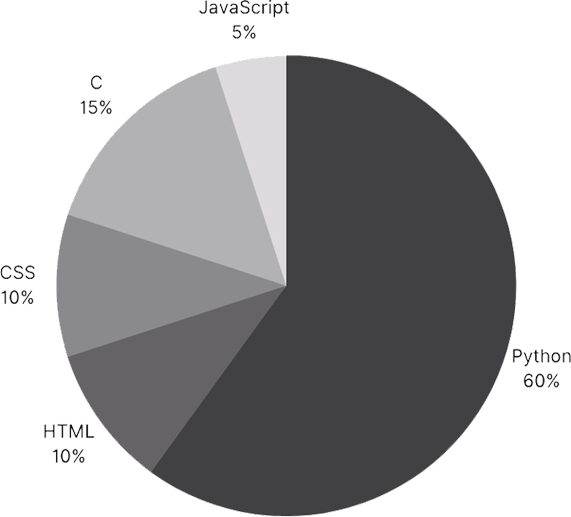
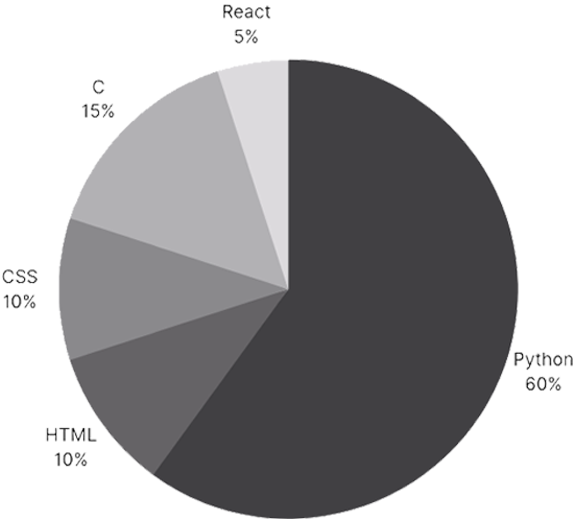
not linked

diff --git a/Resume1.html b/Resume1.html
@@ -4,6 +4,8 @@
 	<title>My Portfolio</title>
 	<link rel="stylesheet" type="text/css" href="css_resume1.css">
 	<link href="https://stackpath.bootstrapcdn.com/font-awesome/4.7.0/css/font-awesome.min.css" rel="stylesheet">
+	<link rel="stylesheet" href="path/to/font-awesome/css/font-awesome.min.css">
+
 </head>
 <body>
 	<div class="scroll">
@@ -57,7 +59,7 @@
 							<div class="role">Engineering Student</div>
 
 						</div>
-						<div class="text">I am an engineering student in KMITL university, majored in Computer Innovation Engineering. Focused on both hardwrae and software.</div>
+						<div class="text">I am an engineering student in KMITL university, majored in Computer Innovation Engineering, focused on both hardware and software.</div>
 						<div class="pr-list">
 							<ul>
 								<li><i class="fa fa-calendar" aria-hidden="true"></i> 24th November, 2004</li>
@@ -68,9 +70,9 @@
 						</div>
 				<div class="social-icons-head">
 						<ul>
-							<li><a href=""><i class="fa fa-facebook" aria-hidden="true"></i></a></li>
-							<li><a href=""><i class="fa fa-twitter" aria-hidden="true"></i></a></li>
-							<li><a href=""><i class="fa fa-instagram" aria-hidden="true"></i></a></li>
+							<li><a href=""><i class="fa fa-github" aria-hidden="true"></i></a></li>
+							<li><a href=""><i class="fa fa-google" aria-hidden="true"></i></a></li>
+							<li><a href=""><button type="button" class="res_button">My Resume</button></a></li>						
 						</ul>
 					</div>
 					</div>
@@ -93,14 +95,15 @@
 						<div class="text">HTML is a tool for writing websites, this resume is programmed by me using HTML.</div>
 						<div class="text-topic t-bold p-top50">CSS</div>
 						<div class="text">CSS is a language that is needed to decorate and customised a website, this resume is programmed in css.</div>
-						<div class="text-topic t-bold p-top50">JavaScript</div>
-						<div class="text">JavaScript are used for multimedia control and animations. In this case, I have used JavaScript as a tool for animations in this website.</div>
+						<div class="text-topic t-bold p-top50">React</div>
+						<div class="text">React is a language, that I am using with the current project, of a web-base game.</div>
+						<div class="text">I have learned how to impliment it with games.</div>
 						<div class="sub lang p-top75">
 							<div class="text-sub">I have participate in a programming competition, writing a web server using the Microsoft Small Basic language.</div>
 							<div class="text-sub">Microsoft Small Basic is a language developed by Microsoft.</div>
 						</div>
 					</div>
-					<div class="user-img flex-2 p p-left50"><img src="G:\My Drive\KMITL\Intern\intern_y2_application\pics\White Black Light Modern Minimal Architecture  Interior Design Portfolio Website (1).png"></div>
+					<div class="user-img flex-2 p p-left50"><img src="pics\White Black Light Modern Minimal Architecture  Interior Design Portfolio Website (1).png"></div>
 				</div>
 			</div>
 			</div>
@@ -174,18 +177,19 @@
 						</div>
 				</div>
 			</div>
-			<div class="section4-Acievements">
+
+			<div class="section4" id="Acheivements">
 				<div class="sec-title p-left30">
-					<div class="pg4 pg-sub-title p-top20">Acheivements</div>
-					<div class="pg4 pg-title">My Works</div>
+					<div class="pg-sub-title p-top50">Acheivements</div>
+					<div class="pg-title">My Works</div>
 					<div class="acheivements cont">
 						<div class="row">
 							<div class="col-md-3 col-sm-6 p-top50">
 								<div class="our-team">
 									<div class="pic">
-										<img src="G:\My Drive\KMITL\Intern\intern_y2_application\pics\auto-shopper.png">
+										<img src="pics\auto-shopper.png">
 										<ul class="social">
-											<i><a href="G:\My Drive\KMITL\Intern\intern_y2_application\Report-Autoshopper.pdf" download= "Report-Auto-Shopper" class="fa fa-file" aria-hidden="true"></a></i>
+											<i><a href="Report-Autoshopper.pdf" download= "Report-Auto-Shopper" class="fa fa-file" aria-hidden="true"></a></i>
 										</ul>
 									</div>
 									<div class="team-content">
@@ -197,7 +201,7 @@
 							<div class="col-md-3 col-sm-6 ">
 								<div class="our-team">
 									<div class="pic">
-										<img src="G:\My Drive\KMITL\Intern\intern_y2_application\pics\smart-shopper.png">
+										<img src="pics\smart-shopper.png">
 										<ul class="social">
 											<i><a href="PCA - Project Report - Auto Shopper-1.pdf" download="Report-Smart-Shopper" class="fa fa-file" aria-hidden="true"></a></i>
 										</ul>
@@ -211,7 +215,7 @@
 							<div class="col-md-3 col-sm-6">
 								<div class="our-team">
 									<div class="pic">
-										<img src="G:\My Drive\KMITL\Intern\intern_y2_application\pics\surveillance-robot.png">
+										<img src="pics\surveillance-robot.png">
 										<ul class="social">
 											<i><a href="Final Presentation-1.pdf" download="surveillance-robot-report" class="fa fa-file" aria-hidden="true"></i></a>
 										</ul>
@@ -225,7 +229,7 @@
 							<div class="col-md-3 col-sm-6">
 								<div class="our-team">
 									<div class="pic">
-										<img src="G:\My Drive\KMITL\Intern\intern_y2_application\pics\sanny_adventure.png">
+										<img src="pics\sanny_adventure.png">
 										<ul class="social">
 											<i><a href="" download="Project-sanny's-zip"class="fa fa-file" aria-hidden="true"></a></i>
 										</ul>
@@ -239,7 +243,7 @@
 							<div class="col-md-3 col-sm-6">
 								<div class="our-team">
 									<div class="pic">
-										<img src="G:\My Drive\KMITL\Intern\intern_y2_application\pics\techaton.jpg">
+										<img src="pics\techaton.jpg">
 									</div>
 									<div class="team-content">
 										<h3 class="title">Techaton Competition</h3>

diff --git a/css_resume1.css b/css_resume1.css
@@ -3,6 +3,7 @@
 @import url('https://fonts.googleapis.com/css?family=Roboto');
 @import url('https://fonts.googleapis.com/css2?family=Pathway+Gothic+One&display=swap');
 
+
 /*=============================================
 Css Indexing
 ===============================================
@@ -850,4 +851,62 @@ Page Styles
 }
 @media only screen and (max-width: 990px){
   .our-team{ margin-bottom: 30px; }
+}
+
+<!-- HTML !-->
+<button class="button-23" role="button">Button 23</button>
+
+/* CSS */
+.button-23 {
+  background-color: #FFFFFF;
+  border: 1px solid #222222;
+  border-radius: 8px;
+  box-sizing: border-box;
+  color: #222222;
+  cursor: pointer;
+  display: inline-block;
+  font-family: Circular,-apple-system,BlinkMacSystemFont,Roboto,"Helvetica Neue",sans-serif;
+  font-size: 16px;
+  font-weight: 600;
+  line-height: 20px;
+  margin: 0;
+  outline: none;
+  padding: 13px 23px;
+  position: relative;
+  text-align: center;
+  text-decoration: none;
+  touch-action: manipulation;
+  transition: box-shadow .2s,-ms-transform .1s,-webkit-transform .1s,transform .1s;
+  user-select: none;
+  -webkit-user-select: none;
+  width: auto;
+}
+
+.button-23:focus-visible {
+  box-shadow: #222222 0 0 0 2px, rgba(255, 255, 255, 0.8) 0 0 0 4px;
+  transition: box-shadow .2s;
+}
+
+.button-23:active {
+  background-color: #F7F7F7;
+  border-color: #000000;
+  transform: scale(.96);
+}
+
+button {
+  background-color: #6d6d6d; /* light gray */
+  color: #ffffff; /* white */
+  border: none;
+  padding: 7px 17px;
+  font-size: 12px;
+  border-radius: 4px;
+  text-align: center;
+  text-decoration: none;
+  display: inline-block;
+  transition-duration: 0.3s;
+}
+
+button:hover {
+  background-color: #2c2c2c; /* darker gray on hover */
+  color: #ffffff; /* white */
 }
